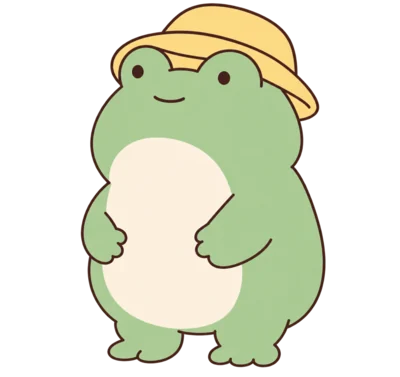
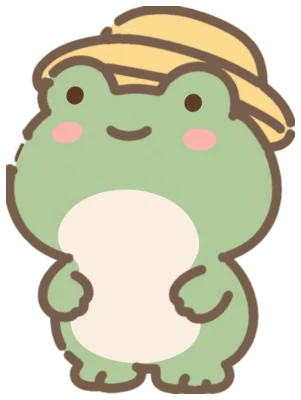
feat(games): Tiệm Bánh Mây customers redrawn as chubby mochi animals
All ten customers redrawn in the decor style: tiny round animals with flat
pastel fills and the decor's thick broken cocoa outline (#765e4c), applied
with one tool so every customer has the same line. DESIGN.md's art notes
follow.

diff --git a/packages/games/src/tiem-banh-may/DESIGN.md b/packages/games/src/tiem-banh-may/DESIGN.md
@@ -159,9 +159,11 @@ Two looks for the world, plus the interface:
   cream, butter, caramel, toasted brown, terracotta, mint, soft pink. It must
   stay 2D: no 3D-render or "AI CGI" look, no gloss, no volumetric light. No
   text or logos inside images.
-- **Customers** (`customer-*.webp`): unchanged from the first art pass, by the
-  owner's choice: flat fills, thin wobbly brown outline, dot eyes. They sit
-  well next to the new items because the outline colour matches.
+- **Customers** (`customer-*.webp`): redrawn on 2026-10-25 with the decor
+  (the owner's call): tiny chubby mochi animals, flat pastel fills, dot eyes
+  and blush, and the decor's thick broken cocoa line (#765e4c), applied by
+  the outline tool in `art-src/.../tools/outline.py` (gitignored with the
+  sources) so every customer has the same line.
 - **Interface** (`art.ts`): light and hand-made, after a reference settings
   screen the owner picked (2026-10-24): thin dark-brown outlines (`LINE`);
   pill buttons on a darker base of their own colour with a broken "stitched"
